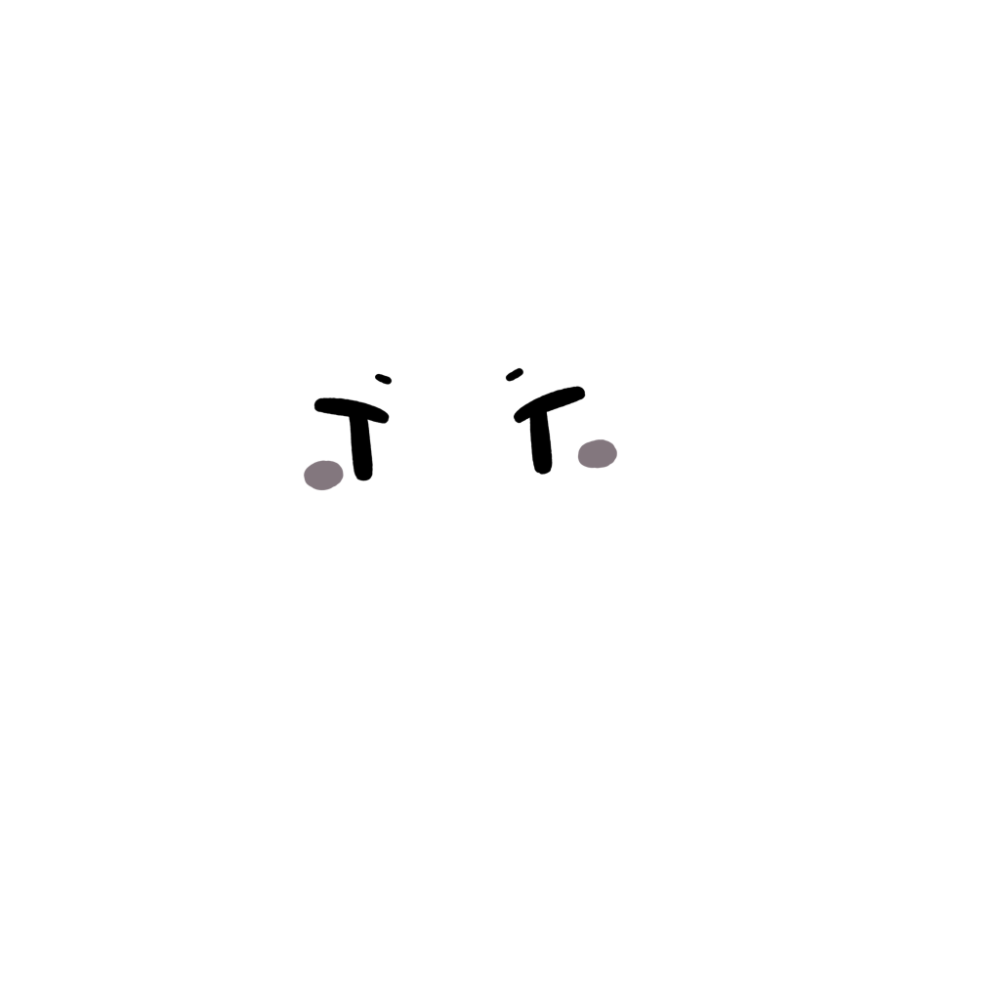
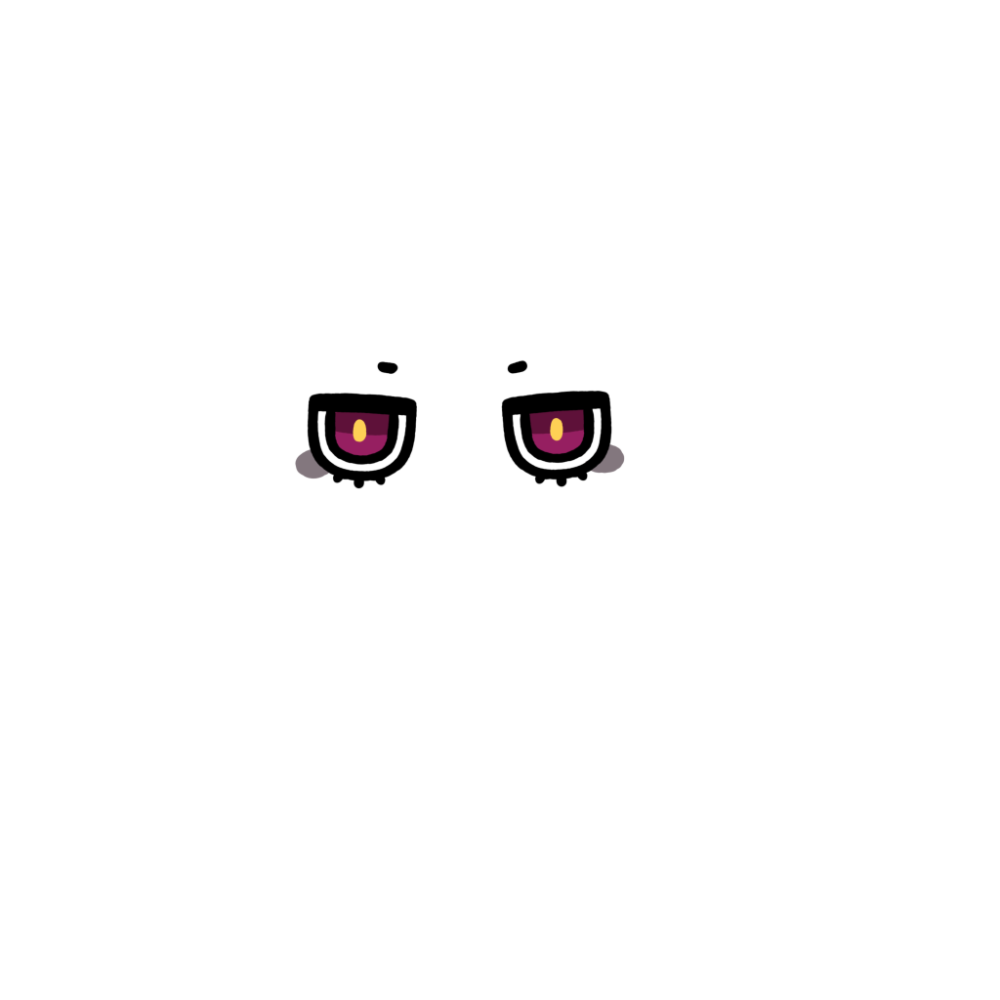
modified:   9696_img/Body/Body_1.png 	modified:   9696_img/Eyes/Eyes_1.png 	modified:   9696_img/Eyes/Eyes_2.png 	modified:   9696_img/Eyes/Eyes_3.png 	renamed:    "\347\204\241\346\250\231\351\241\21497_20230618155629.png" -> 9696_img/Eyes/Eyes_7.png 	renamed:    "\347\204\241\346\250\231\351\241\2

Changed region(s): [[0.279, 0.341, 0.434, 0.496], [0.496, 0.341, 0.62, 0.496]]

diff --git a/js/config.js b/js/config.js
@@ -37,6 +37,14 @@ const SelectionOptions = [
             {
                 "ImageLabel":"Eyes6",
                 "ImagePath":"9696_img/Eyes/Eyes_6.png"
+            },
+            {
+                "ImageLabel":"Eyes7",
+                "ImagePath":"9696_img/Eyes/Eyes_7.png"
+            },
+            {
+                "ImageLabel":"Eyes8",
+                "ImagePath":"9696_img/Eyes/Eyes_8.png"
             }
         ]
     },
@@ -95,6 +103,10 @@ const SelectionOptions = [
             {
                 "ImageLabel":"Mouth13",
                 "ImagePath":"9696_img/Mouth/Mouth_13.png"
+            },
+            {
+                "ImageLabel":"Mouth14",
+                "ImagePath":"9696_img/Mouth/Mouth_14.png"
             }
         ]
     },
@@ -129,6 +141,14 @@ const SelectionOptions = [
             {
                 "ImageLabel":"Weapon",
                 "ImagePath":"9696_img/Weapon/Weapon_7.png"
+            },
+            {
+                "ImageLabel":"Weapon",
+                "ImagePath":"9696_img/Weapon/Weapon_8.png"
+            },
+            {
+                "ImageLabel":"Weapon",
+                "ImagePath":"9696_img/Weapon/Weapon_9.png"
             }
         ]
     },

diff --git a/css/style.css b/css/style.css
@@ -103,7 +103,8 @@
 
 #backgroundWindow{
     width: 100%;
-    background-color: rgb(0, 0, 0);
+    background-image: url('../9696_img/BG/Background2.png');
+    background-size: cover;
 }
 
 
